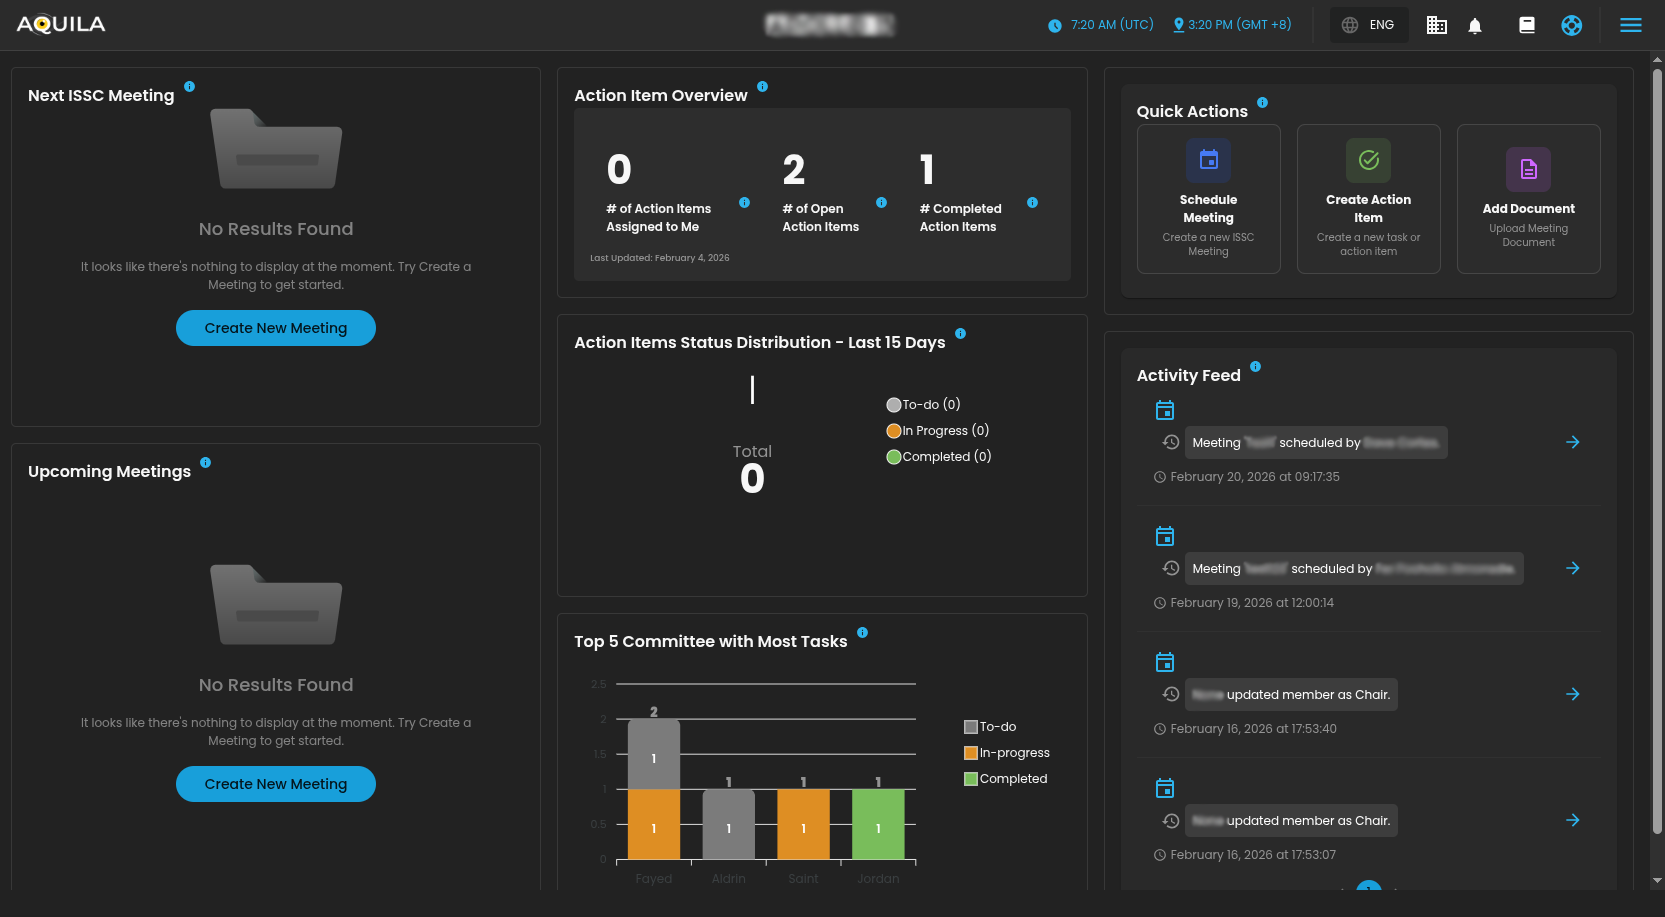
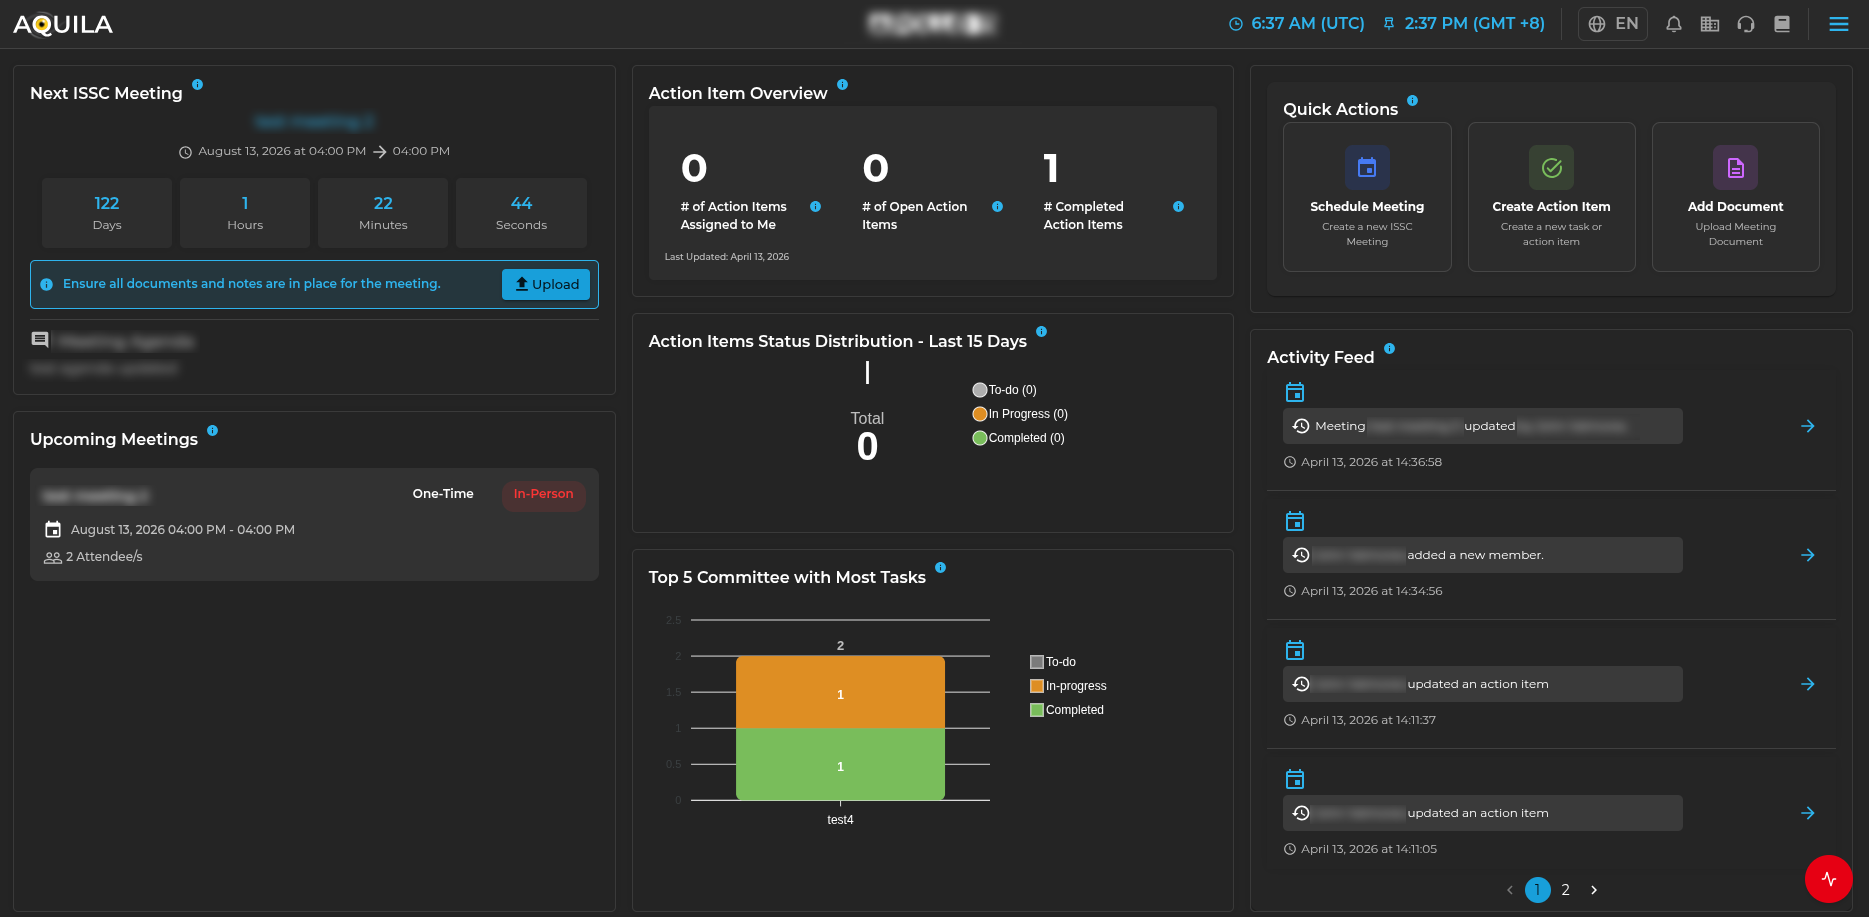
feat: implement ExperienceItem component and update portfolio page with new project assets

diff --git a/app/page.tsx b/app/page.tsx
@@ -61,6 +61,17 @@ import leader4 from '../public/competent_leaders/services.png';
 // Miltonstark Screenshots
 import milton1 from '../public/miltonstark/miltonstark.png';
 
+// ISPA Screenshots
+import ispa1 from '../public/ispa/ISPA Dashboard.png';
+import ispa2 from '../public/ispa/Pressure Analysis Main.png';
+import ispa3 from '../public/ispa/Risk Appetite Main.png';
+import ispa4 from '../public/ispa/Risk Assessment Main.png';
+import ispa5 from '../public/ispa/Assessment History.png';
+import ispa6 from '../public/ispa/Risk Appetite View Assessment.png';
+import ispa7 from '../public/ispa/Security Pressure Analysis View Assessment.png';
+import ispa8 from '../public/ispa/Security Risk Assessment View Assessment.png';
+import ispa9 from '../public/ispa/Security Risk Take Assessment.png';
+
 
 
 
@@ -98,7 +109,7 @@ const navLinks: NavLink[] = [
 const projects: Project[] = [
   // {
   //   title: 'Assessment Library',
-  //   description: 'A web application that serves as a centralized repository for assessments for the course enrolled by the user.',
+  //   description: 'A centralized assessment platform that evaluates user security awareness and tracks learning progress across cybersecurity training modules.',
   //   tags: ['Django Rest Framework', 'Next.js', 'MUI', 'Postgres', 'Docker'],
   //   link: 'cytechint.io',
   //   image: null,
@@ -108,7 +119,7 @@ const projects: Project[] = [
   // },
   // {
   //   title: 'Course Library',
-  //   description: 'A web application that serves as a centralized repository for educational courses, enroll users in courses that are vulnerable in phishing attacks.',
+  //   description: 'An educational course management system that delivers targeted cybersecurity training, focusing on identifying and mitigating phishing vulnerabilities.',
   //   tags: ['Django Rest Framework', 'Next.js', 'MUI', 'Postgres', 'Docker'],
   //   link: 'cytechint.io',
   //   image: null,
@@ -118,17 +129,7 @@ const projects: Project[] = [
   // },
   // {
   //   title: 'Phishing Simulation',
-  //   description: 'A web application that simulates phishing attacks to train users to identify and avoid phishing attacks.',
-  //   tags: ['Django Rest Framework', 'Next.js', 'MUI', 'Postgres', 'Docker'],
-  //   link: 'cytechint.io',
-  //   image: null,
-  //   screenshots: [
-
-  //   ],
-  // },
-  // {
-  //   title: 'Information Security Pressure Analysis',
-  //   description: 'A web application that analyzes the pressure of information securit',
+  //   description: 'A sophisticated phishing simulation platform that sends realistic phishing emails to users, tracking engagement patterns and identifying vulnerability levels for targeted security training.',
   //   tags: ['Django Rest Framework', 'Next.js', 'MUI', 'Postgres', 'Docker'],
   //   link: 'cytechint.io',
   //   image: null,
@@ -137,8 +138,26 @@ const projects: Project[] = [
   //   ],
   // },
   {
-    title: 'ISSC',
-    description: 'An Information System for Committees that streamlines meeting management, member tracking, and document handling.',
+    title: 'Information Security Pressure Analysis (CyTech Module)',
+    description: 'A comprehensive security vulnerability assessment platform that conducts three critical evaluations to identify and compute organizational security weaknesses, providing actionable insights for risk mitigation.',
+    tags: ['Django Rest Framework', 'Next.js', 'MUI', 'Postgres', 'Docker'],
+    link: 'cytechint.io',
+    image: ispa1.src,
+    screenshots: [
+      ispa1.src,
+      ispa4.src,
+      ispa2.src,
+      ispa3.src,
+      ispa5.src,
+      ispa6.src,
+      ispa7.src,
+      ispa8.src,
+      ispa9.src
+    ],
+  },
+  {
+    title: 'Information Security Steering Committee (CyTech Module)',
+    description: 'A comprehensive committee management platform that enables seamless meeting scheduling, member administration, and document collaboration for organized team workflows.',
     tags: ['Django Ninja', 'Next.js', 'MUI', 'Postgres', 'Docker', 'AWS'],
     link: 'cytechint.io',
     image: issc1.src,
@@ -168,7 +187,7 @@ const projects: Project[] = [
   {
     title: 'Competent Leaders',
     description: 'A specialized executive recruitment platform that connects higher education institutions with top-tier leadership talent through expert industry consultancy.',
-    tags: ['HTML', 'CSS', 'JavaScript', 'TailwindCSS'],
+    tags: ['Next.js', 'CSS', 'JavaScript', 'TailwindCSS'],
     link: 'https://www.competent-leaders.com/',
     image: leader1.src,
     screenshots: [
@@ -181,7 +200,7 @@ const projects: Project[] = [
   {
     title: 'Miltonstark',
     description: 'This project is an impact-driven professional platform centered on energy advocacy and strategic growth.',
-    tags: ['HTML', 'CSS', 'JavaScript', 'TailwindCSS'],
+    tags: ['Next.js', 'CSS', 'JavaScript', 'TailwindCSS'],
     link: 'https://www.miltonstark.com/',
     image: milton1.src,
     screenshots: [

diff --git a/app/components/ExperienceItem.tsx b/app/components/ExperienceItem.tsx
@@ -16,6 +16,7 @@ export default function ExperienceItem({ company, role, period, description, ski
         position: 'relative',
         pl: { xs: 3, md: 5 },
         pb: 8,
+        mt: 4,
         '&:last-child': { pb: 0 },
         '&::before': {
           content: '""',
